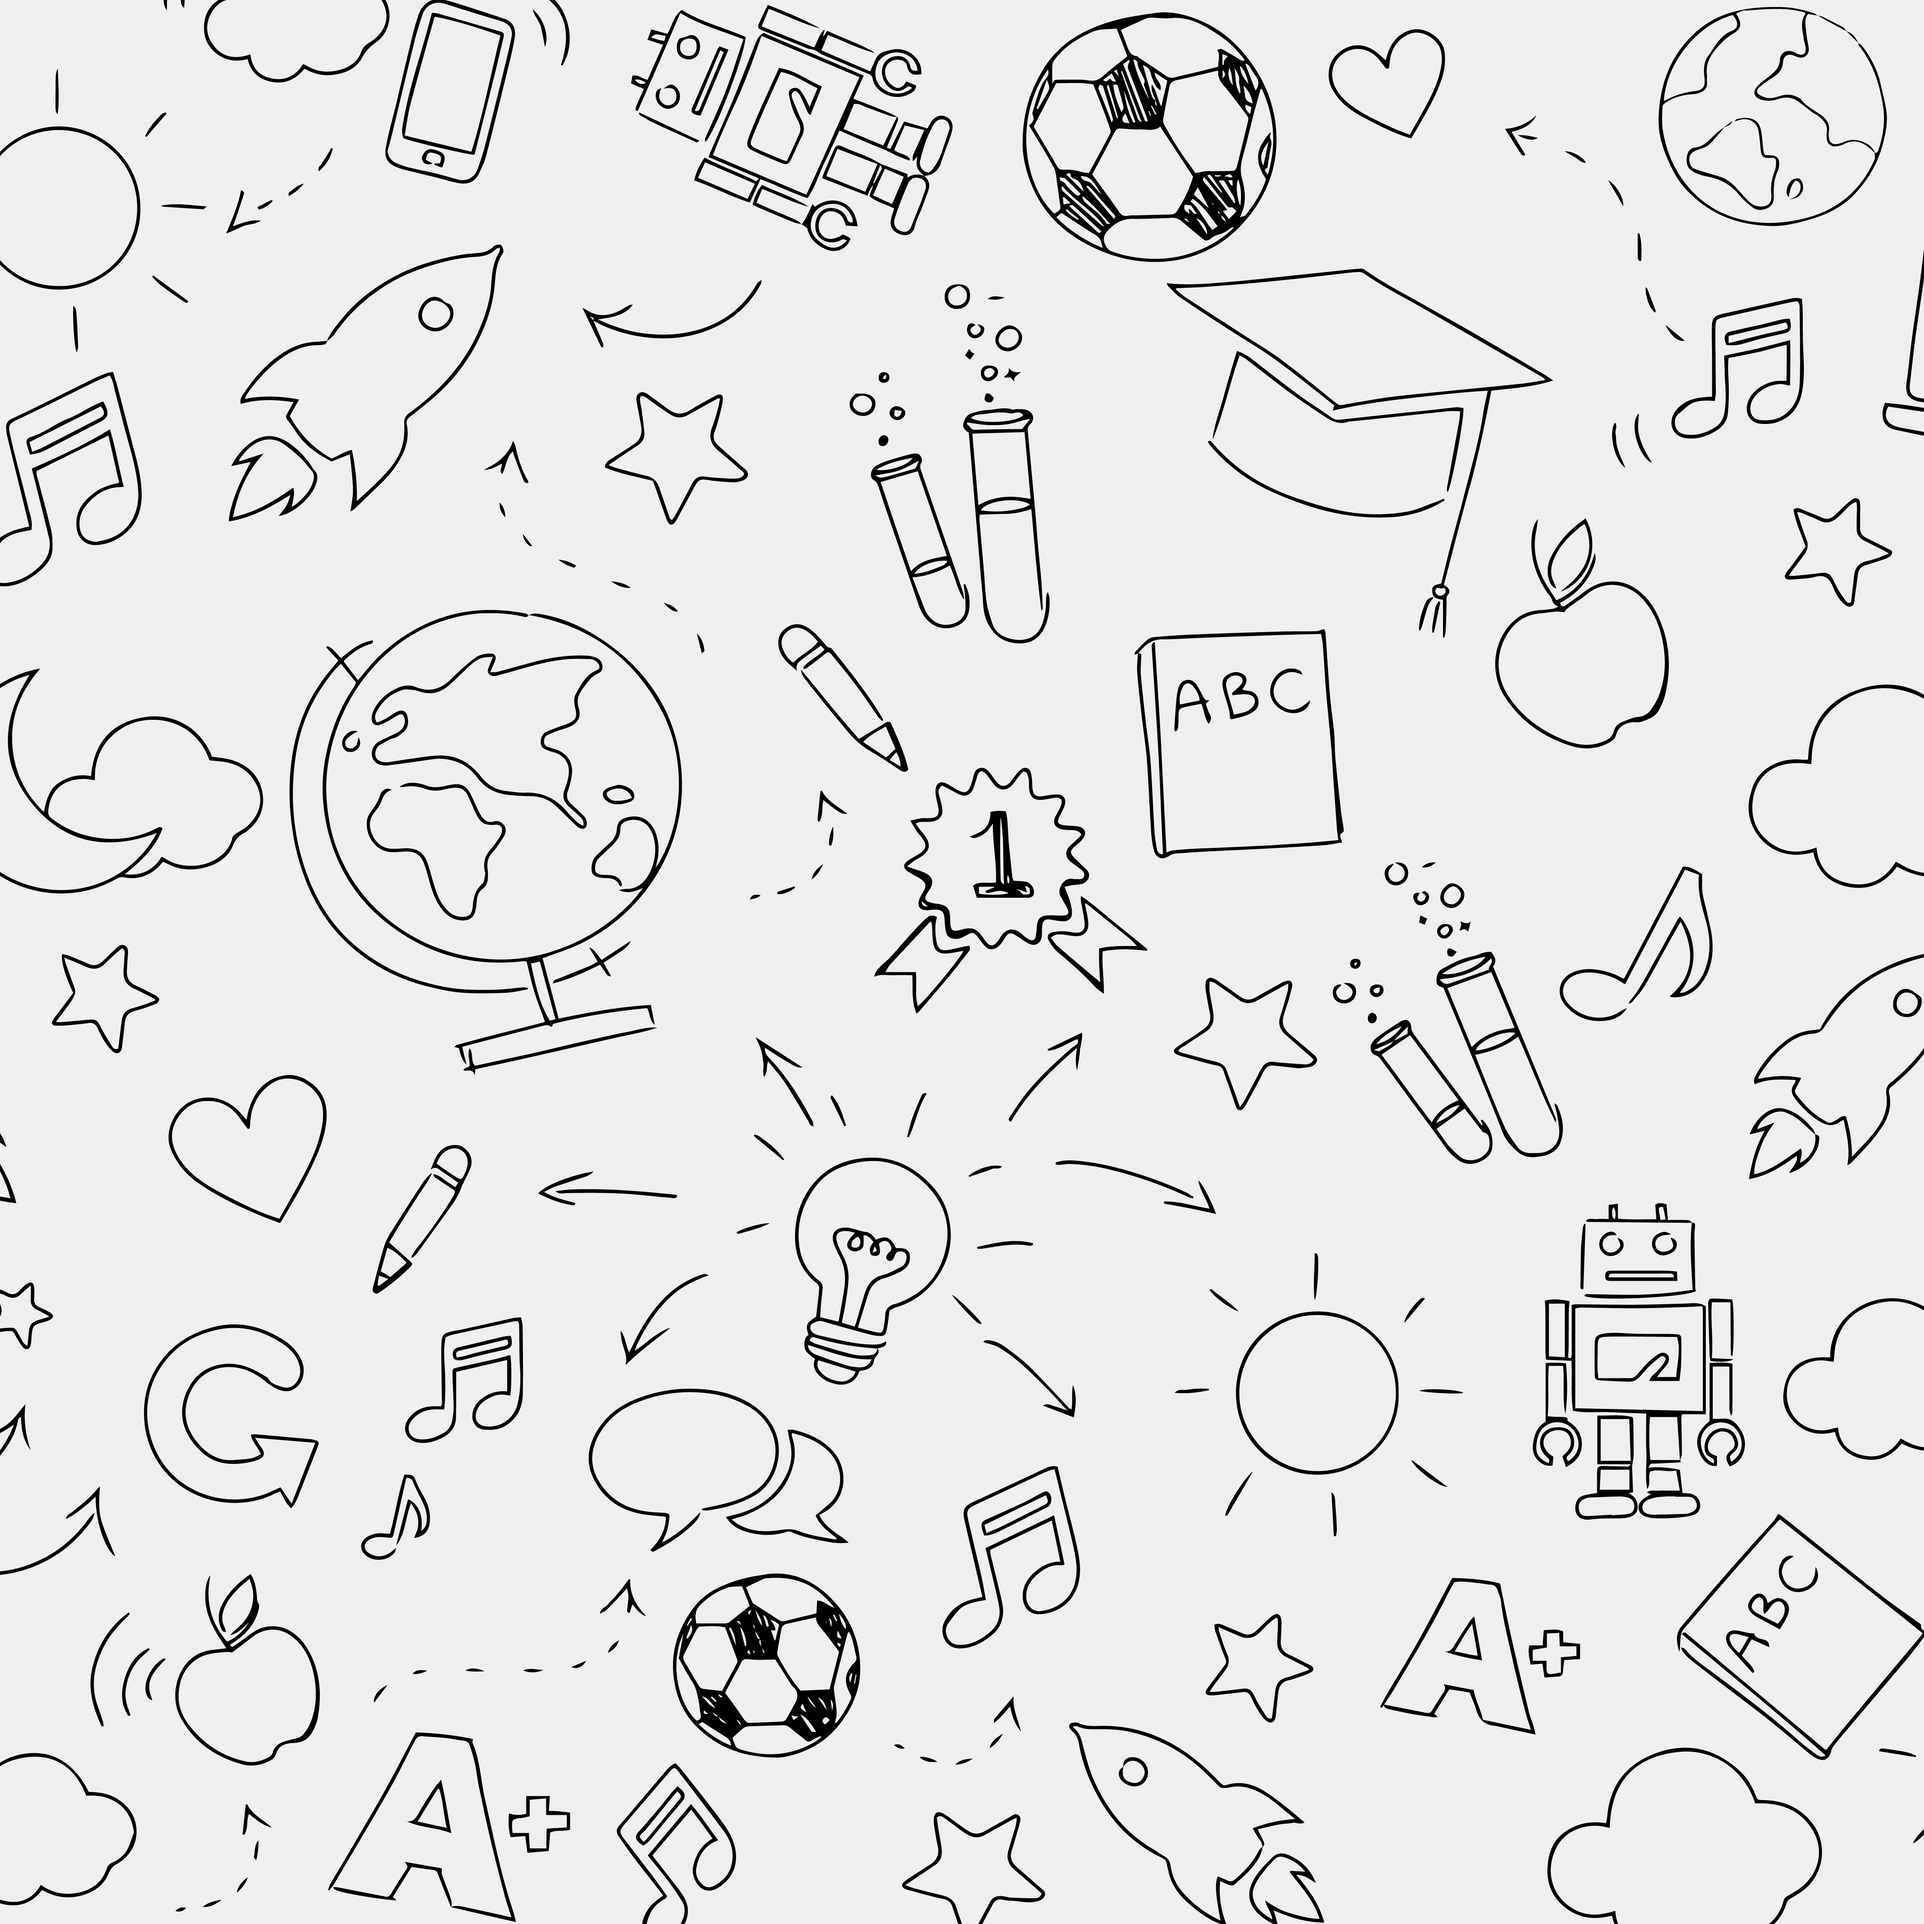
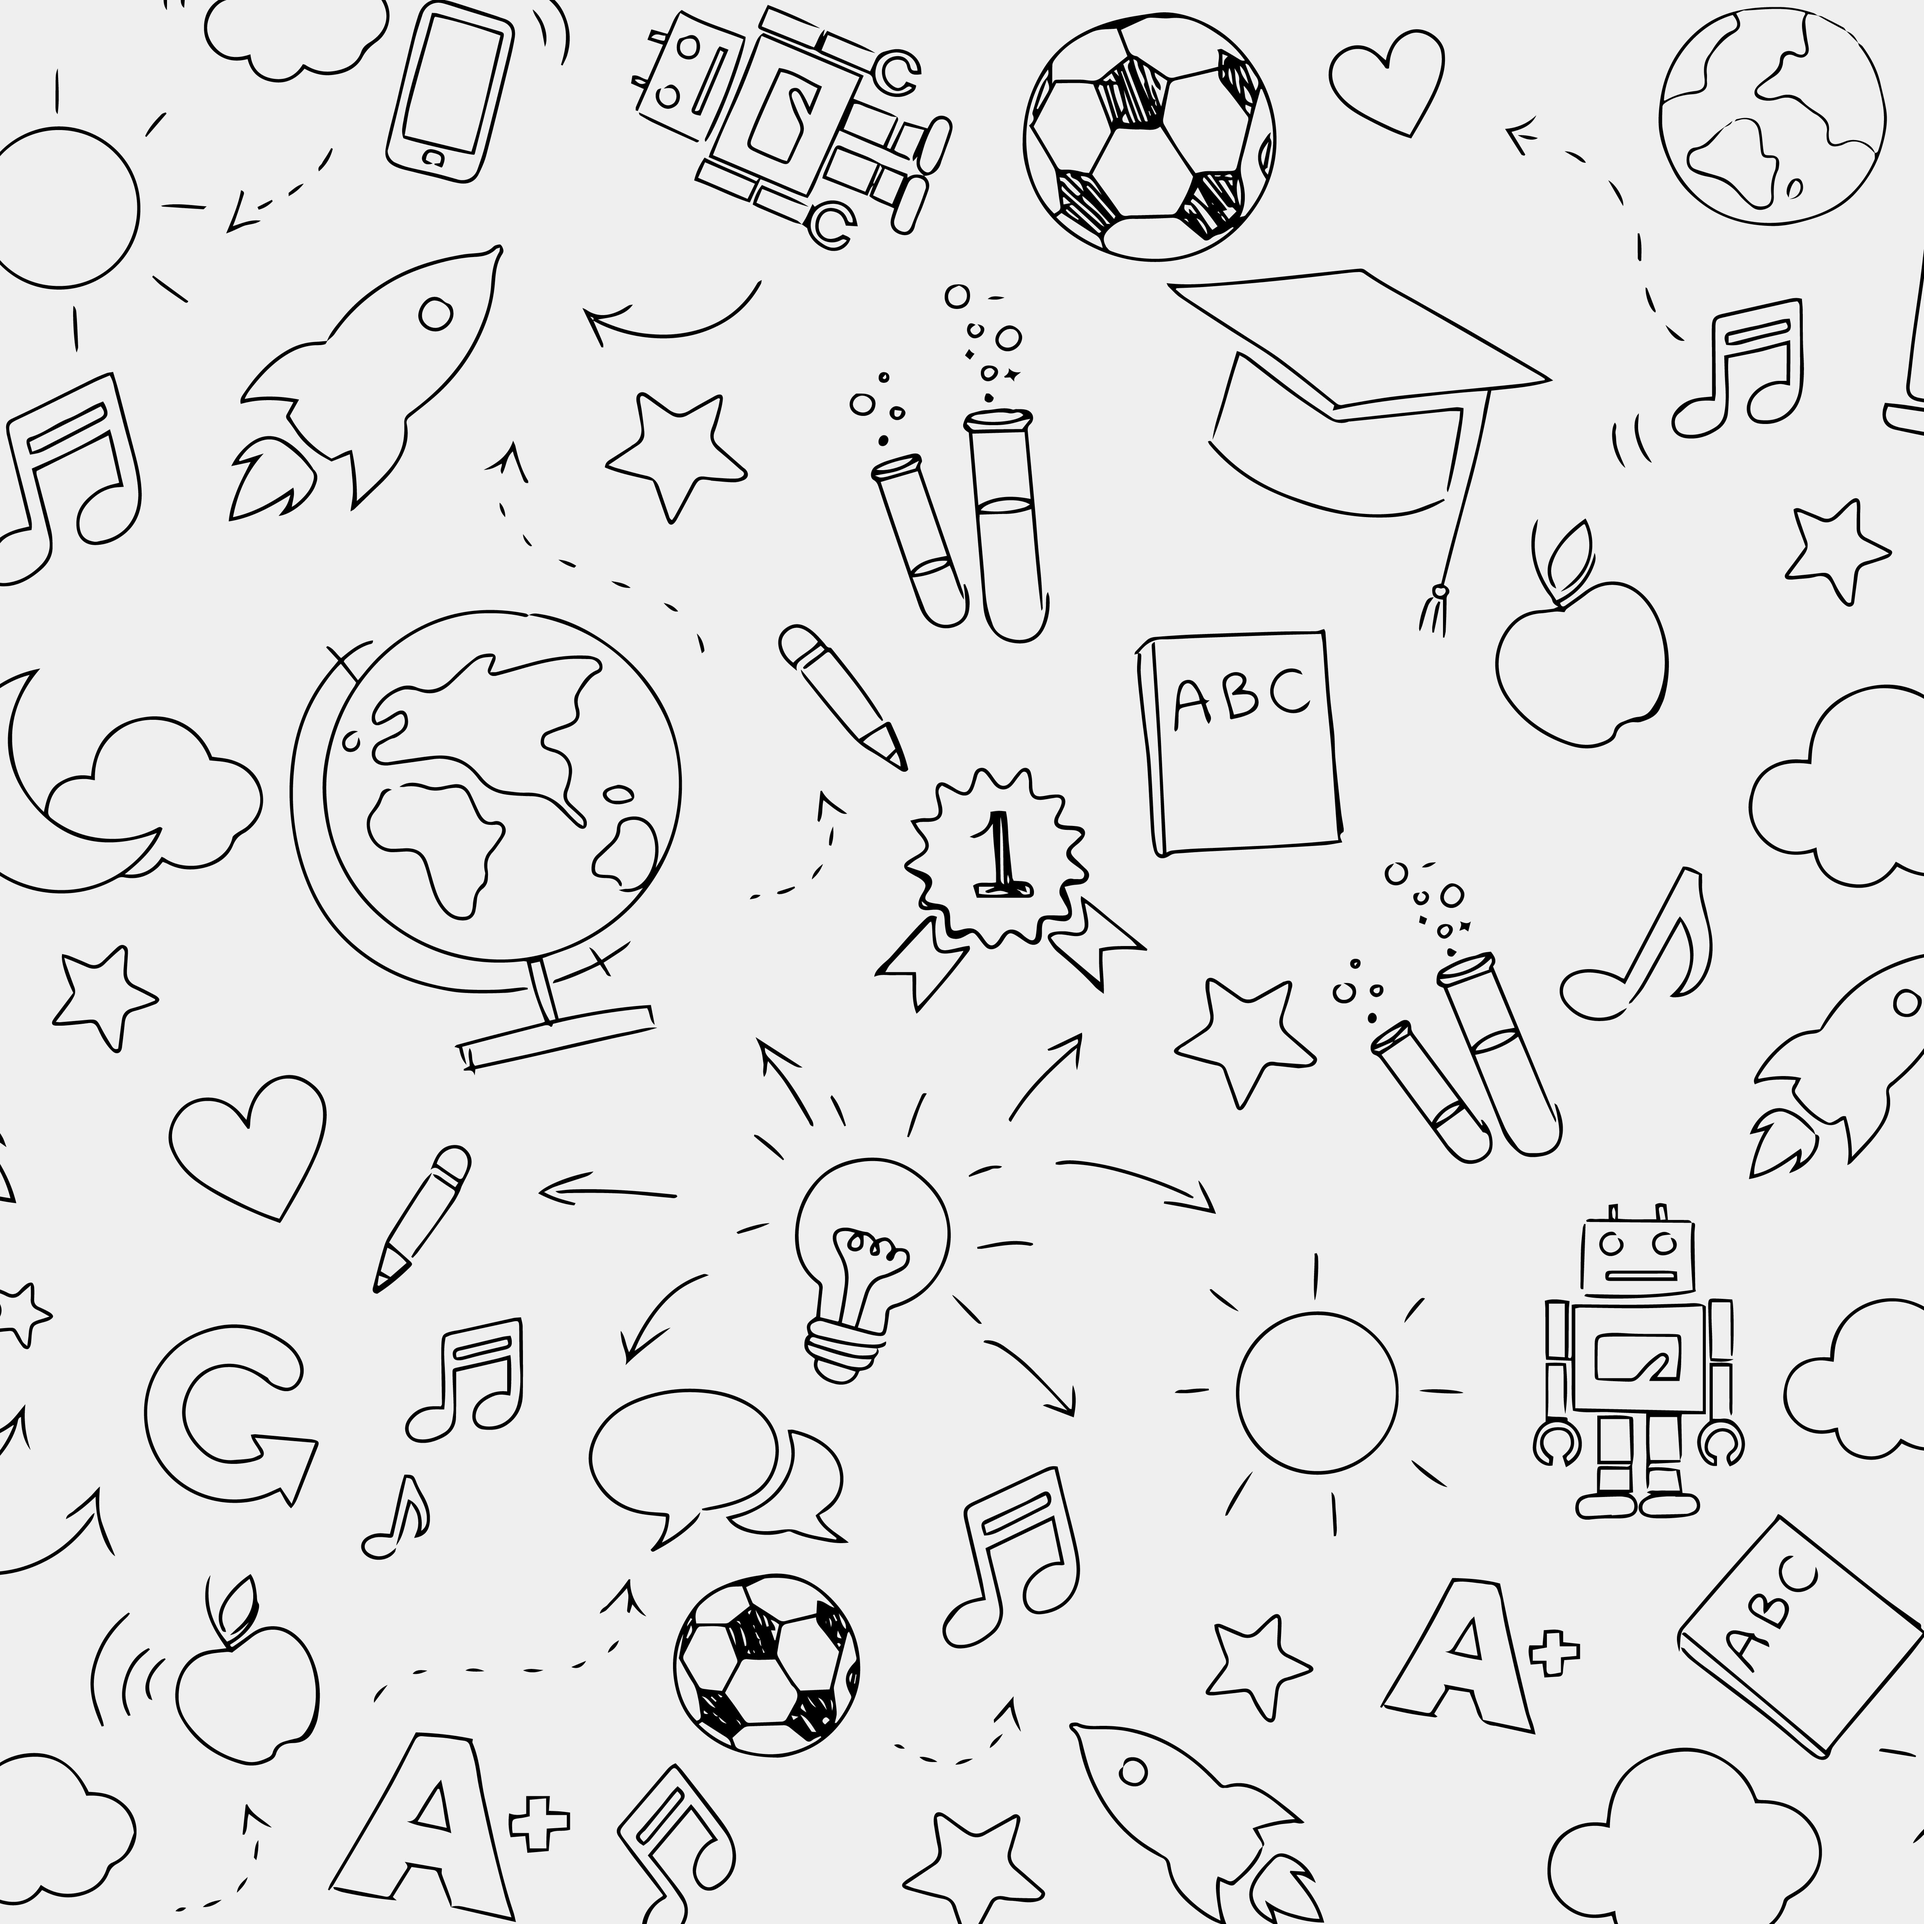
comprimir imagenes

diff --git a/paginas/nuestrahistoria.html b/paginas/nuestrahistoria.html
@@ -80,7 +80,7 @@
           </article>
             <article class="historia">
                 <div class="alineado">
-                  <img src="../imagenes/personas-planeando-.jpg" alt="reunion-de-amigos" class="foto 2019-foto">
+                  <img src="../imagenes/personas-planeando- (2).jpg" alt="reunion-de-amigos" class="foto 2019-foto">
                 </div>
                 <div>
                   <p class="texto">Comenzamos con un pequeño grupo de amigos donde a uno se le ocurrió que deberia haber una manera mas facil de conseguir profesor particular para su hijo</p>
